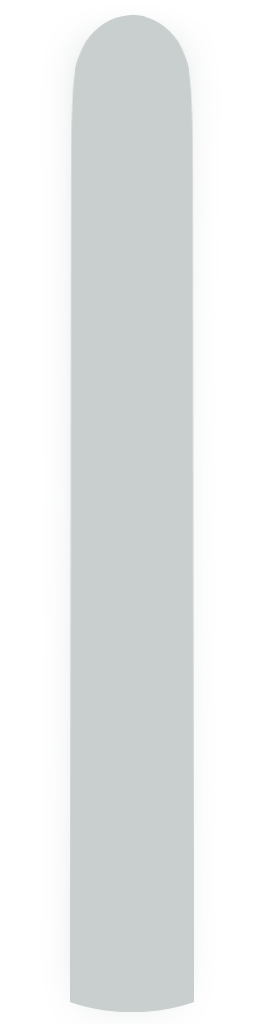
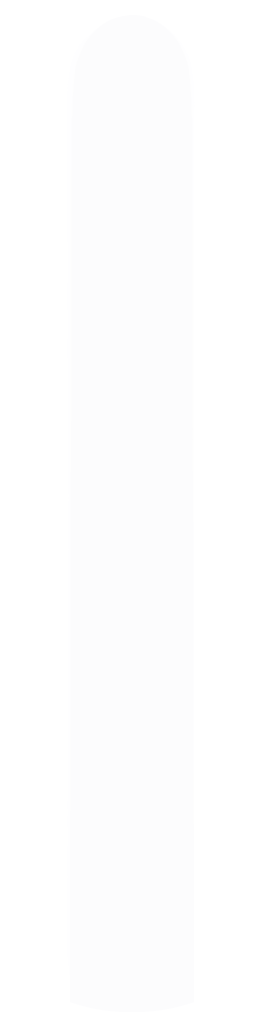
SFX sabers update

diff --git a/codemp/cgame/cg_players.c b/codemp/cgame/cg_players.c
@@ -6299,7 +6299,7 @@ static void CG_RGBForSaberColorAOTCTheatrical(saber_colors_t color, vec3_t rgb, 
 		VectorSet(rgb, 0.808f, 0.667f, 0.000f);  // ceaa00
 		break;
 	case SABER_GREEN:
-		VectorSet(rgb, 0.141f, 0.333f, 0.161f);  // 245529
+		VectorSet(rgb, 0.078f, 0.478f, 0.224f);  // 147A39
 		break;
 	case SABER_BLUE:
 		VectorSet(rgb, 0.000f, 0.141f, 0.349f);  // 002459
@@ -11559,7 +11559,7 @@ JustDoIt:
 
 		// Fix black trail shader // Niksata Edit
 		if (scolor == SABER_BLACK) {
-			if (cg_SFXSabers.integer == 3) {
+			if (cg_SFXSabers.integer == 7) {
 				fx.mShader = cgs.media.ShaderSaberTrailblackAhsoka;
 			}
 			else {
@@ -11568,13 +11568,49 @@ JustDoIt:
 			VectorSet(rgb1, 0.0f, 0.0f, 0.0f);
 		}
 		else {
-			if (cg_SFXSabers.integer == 3) {
+			if (cg_SFXSabers.integer == 7) {
 				fx.mShader = cgs.media.ShaderSaberTrailAhsoka;
 			}
 			else {
 				fx.mShader = cgs.media.ShaderSaberTrail;
 			}
 		} // Niksata Edit
+
+		// Niksata Edit - Per-style SFX saber trail colors
+		switch (cg_SFXSabers.integer)
+		{
+		case 1:  // TPM
+			VectorSet(rgb1, 255.0f, 255.0f, 255.0f);
+			break;
+
+		case 11: // Theatrical TPM
+			VectorSet(rgb1, 229.0f, 220.0f, 217.0f);
+			break;
+
+		case 2:  // AOTC
+			VectorSet(rgb1, 252.0f, 252.0f, 253.0f);
+			break;
+
+		case 3:  // ROTS
+			VectorSet(rgb1, 255.0f, 255.0f, 255.0f);
+			break;
+
+		case 4:  // OT
+			VectorSet(rgb1, 253.0f, 253.0f, 253.0f);
+			break;
+
+		case 44: // McQuarrie
+			VectorSet(rgb1, 217.0f, 214.0f, 212.0f);
+			break;
+
+		case 7:  // Ahsoka
+			VectorSet(rgb1, 219.0f, 233.0f, 235.0f);
+			break;
+
+		default:
+			break;
+		}
+
 		fx.mKillTime = 2;
 		fx.mSetFlags = FX_USE_ALPHA;
 

diff --git a/codemp/cgame/cg_main.c b/codemp/cgame/cg_main.c
@@ -716,7 +716,7 @@ static void CG_RegisterSounds( void ) {
 	cgs.media.greenSaberGlowShaderAOTCTheatrical = trap->R_RegisterShader("gfx/effects/sabers/green_glow_aotc"); // Niksata Edit
 	cgs.media.blueSaberGlowShaderAOTCTheatrical = trap->R_RegisterShader("gfx/effects/sabers/blue_glow_aotc"); // Niksata Edit
 	cgs.media.purpleSaberGlowShaderAOTCTheatrical = trap->R_RegisterShader("gfx/effects/sabers/purple_glow_aotc"); // Niksata Edit
-	cgs.media.rgbSaberGlowShaderAOTCTheatrical = trap->R_RegisterShader("gfx/effects/sabers/RGBglow1_aotc"); // Niksata Edit
+	cgs.media.rgbSaberGlowShaderAOTCTheatrical = trap->R_RegisterShader("gfx/effects/sabers/RGBglow1ep2_theatrical"); // Niksata Edit
 
 	//sfx Ahsoka // Niksata Edit
 	cgs.media.ShaderSaberBladeAhsoka = trap->R_RegisterShader("SFX_Sabers/ahsoka_rgb_blade"); // Niksata Edit
